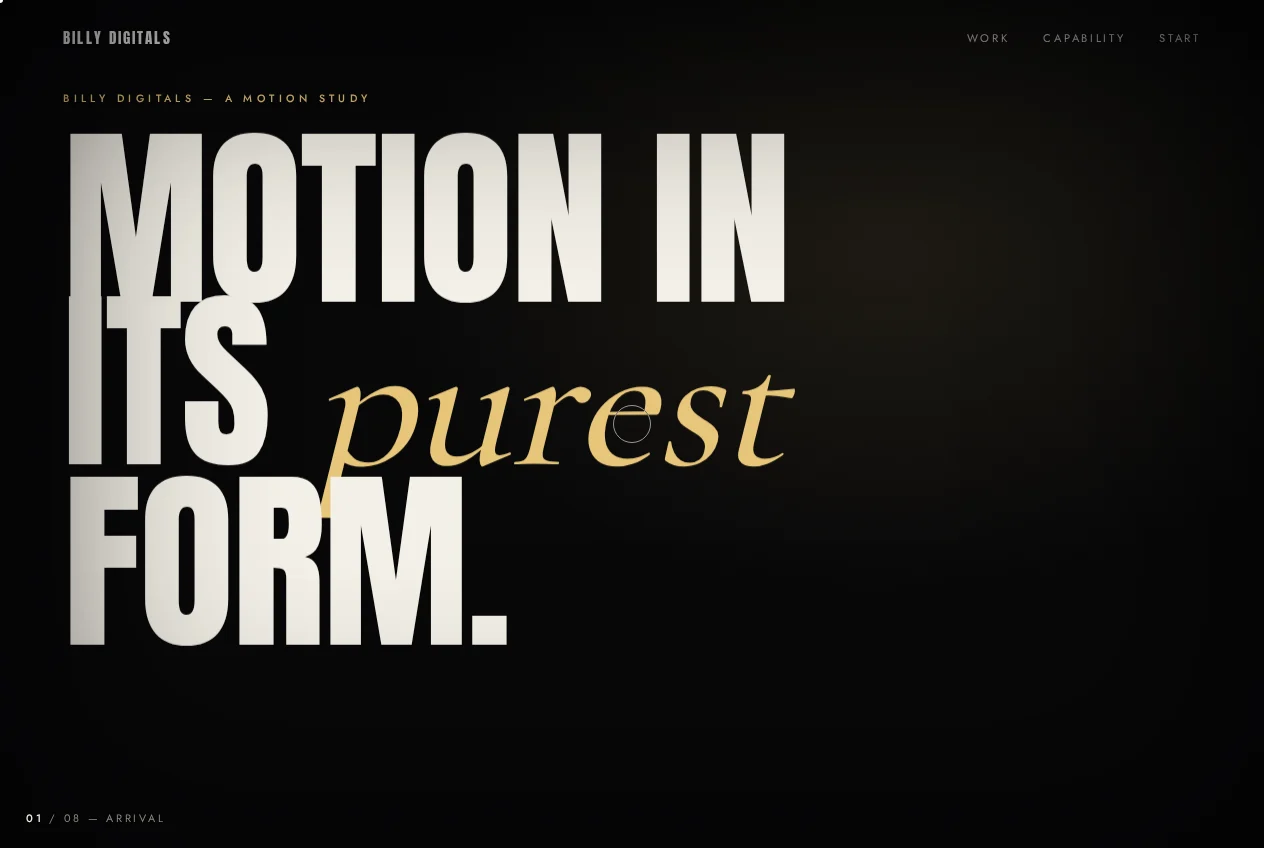
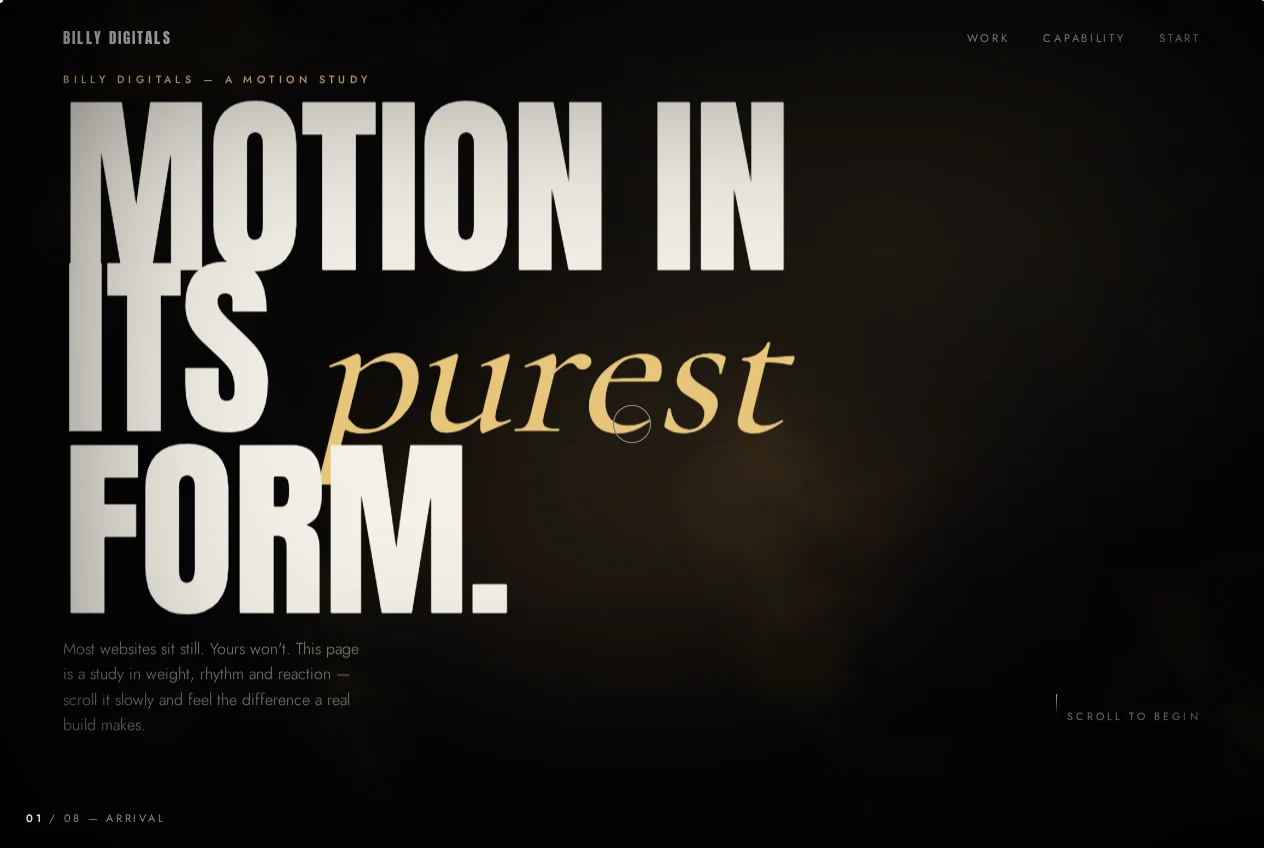
Apex: add living WebGL backdrop + velocity chromatic aberration
Raises the whole page from flat sections to one cohesive, reactive world:
- Persistent fullscreen WebGL fragment-shader backdrop (dark gold FBM veins)
  behind the entire page, brightening with scroll velocity and glowing
  toward the pointer (mouse + touch), capped resolution for mobile perf
- Velocity-driven chromatic aberration (RGB split) on the hero, section and
  CTA display type — settles when scrolling stops
- Sections sit translucent over the backdrop for depth while keeping text
  fully legible; disabled under prefers-reduced-motion
- Refreshed homepage thumbnail

Claude-Session: https://claude.ai/code/session_015K37x6MioAxPMJwvdwzo4L

Changed region(s): [[0.0309, 0.092, 0.6788, 0.8585], [0.5554, 0.2453, 0.5862, 0.2759]]

diff --git a/templates/apex.html b/templates/apex.html
@@ -27,8 +27,12 @@ h1,h2,h3{font-weight:400;line-height:.92;letter-spacing:-.01em}
 .muted{color:var(--dim)}
 section{position:relative}
 
+/* ============ living webgl backdrop ============ */
+#bg{position:fixed;inset:0;width:100%;height:100%;z-index:0;pointer-events:none;opacity:0;transition:opacity 1.4s ease}
+#bg.on{opacity:1}
+
 /* ============ smooth scroll wrapper ============ */
-#app{width:100%;z-index:1}
+#app{width:100%;position:relative;z-index:1}
 html.smooth #app{position:fixed;top:0;left:0;will-change:transform}
 html.smooth,html.smooth body{overflow:visible}
 html.smooth body{overscroll-behavior-y:none}
@@ -193,6 +197,7 @@ footer .bd{font-family:var(--disp);color:var(--ink);letter-spacing:.12em}
 }
 </style>
 
+<canvas id="bg"></canvas>
 <div id="grain"></div><div id="vig"></div>
 <div id="prog"><i></i></div>
 <div id="idx"><b>01</b> / 08 — <span id="idxn">ARRIVAL</span></div>
@@ -414,8 +419,55 @@ function init(){
   });
 
   addEventListener("scroll",function(){target=window.scrollY||window.pageYOffset;},{passive:true});
-  var ro;addEventListener("resize",function(){clearTimeout(ro);ro=setTimeout(measure,150);});
+  var ro;addEventListener("resize",function(){clearTimeout(ro);ro=setTimeout(function(){measure();if(bg)bg.size();},150);});
   measure();target=window.scrollY;cur=target;
+
+  /* ---------- global pointer (drives backdrop glow, works on touch) ---------- */
+  var pnx=0.5,pny=0.4;
+  function pt(x,y){pnx=x/vw;pny=1-(y/vh);}   // gl y is bottom-up
+  addEventListener("mousemove",function(e){pt(e.clientX,e.clientY);},{passive:true});
+  addEventListener("touchmove",function(e){if(e.touches[0])pt(e.touches[0].clientX,e.touches[0].clientY);},{passive:true});
+
+  /* ---------- living WebGL backdrop ---------- */
+  function makeBG(cv){
+    var gl=cv.getContext("webgl",{alpha:true,antialias:false,premultipliedAlpha:false})||cv.getContext("experimental-webgl");
+    if(!gl)return null;
+    var vs="attribute vec2 p;void main(){gl_Position=vec4(p,0.0,1.0);}";
+    var fs="precision highp float;uniform float t;uniform vec2 r;uniform vec2 m;uniform float e;"+
+      "float h(vec2 p){return fract(sin(dot(p,vec2(127.1,311.7)))*43758.5453);}"+
+      "float n(vec2 p){vec2 i=floor(p),f=fract(p);f=f*f*(3.0-2.0*f);"+
+      "return mix(mix(h(i),h(i+vec2(1,0)),f.x),mix(h(i+vec2(0,1)),h(i+vec2(1,1)),f.x),f.y);}"+
+      "float fbm(vec2 p){float v=0.0,a=0.5;for(int i=0;i<5;i++){v+=a*n(p);p*=2.0;a*=0.5;}return v;}"+
+      "void main(){vec2 uv=gl_FragCoord.xy/r.xy;vec2 p=uv;p.x*=r.x/r.y;"+
+      "float f=fbm(p*2.0+vec2(t*0.05,t*0.03));"+
+      "float f2=fbm(p*3.6-vec2(t*0.04,-t*0.02)+f*1.3);"+
+      "vec3 base=vec3(0.014,0.013,0.020);"+
+      "vec3 gold=vec3(0.60,0.44,0.16);"+
+      "float veins=smoothstep(0.52,0.86,f2);"+
+      "vec3 col=base+gold*veins*(0.09+e*0.55);"+
+      "col+=gold*0.14*veins*veins*e;"+                       // extra ignition on fast scroll
+      "float md=distance(uv,m);col+=vec3(0.85,0.66,0.34)*0.13*smoothstep(0.36,0.0,md);"+
+      "col+=gold*0.028*pow(uv.y,2.0);"+                      // faint top light
+      "gl_FragColor=vec4(col,1.0);}";
+    function sh(ty,src){var s=gl.createShader(ty);gl.shaderSource(s,src);gl.compileShader(s);return s;}
+    var pr=gl.createProgram();gl.attachShader(pr,sh(gl.VERTEX_SHADER,vs));gl.attachShader(pr,sh(gl.FRAGMENT_SHADER,fs));gl.linkProgram(pr);
+    if(!gl.getProgramParameter(pr,gl.LINK_STATUS))return null;
+    gl.useProgram(pr);
+    var buf=gl.createBuffer();gl.bindBuffer(gl.ARRAY_BUFFER,buf);
+    gl.bufferData(gl.ARRAY_BUFFER,new Float32Array([-1,-1,3,-1,-1,3]),gl.STATIC_DRAW);
+    var lp=gl.getAttribLocation(pr,"p");gl.enableVertexAttribArray(lp);gl.vertexAttribPointer(lp,2,gl.FLOAT,false,0,0);
+    var ut=gl.getUniformLocation(pr,"t"),ur=gl.getUniformLocation(pr,"r"),um=gl.getUniformLocation(pr,"m"),ue=gl.getUniformLocation(pr,"e");
+    function size(){var d=Math.min(devicePixelRatio||1,1.4);cv.width=Math.max(2,(innerWidth*d)|0);cv.height=Math.max(2,(innerHeight*d)|0);gl.viewport(0,0,cv.width,cv.height);}
+    size();
+    return {size:size,draw:function(tt,en,mx,my){gl.uniform1f(ut,tt);gl.uniform2f(ur,cv.width,cv.height);gl.uniform2f(um,mx,my);gl.uniform1f(ue,en);gl.drawArrays(gl.TRIANGLES,0,3);}};
+  }
+  var bg=reduce?null:makeBG(document.getElementById("bg"));
+  var bgT=0,bgE=0;
+  if(bg){requestAnimationFrame(function(){document.getElementById("bg").classList.add("on");});}
+
+  /* velocity chromatic aberration targets */
+  var splitEls=[].slice.call(document.querySelectorAll("#hero h1, #cta h2, .htitle h2"));
+  var lastSplit=0;
 
   /* ---------- FLIP gallery ---------- */
   var flip=document.getElementById("flip"),flipPi=flip.querySelector(".pi"),flipx=document.getElementById("flipx"),flipOpen=false,flipEl=null,flipR=null;
@@ -527,6 +579,16 @@ function init(){
     for(var s=0;s<secs.length;s++){var o=offsets.has(secs[s])?offsets.get(secs[s]):offTop(secs[s]);if(o<=mid)active=secs[s];}
     if(active){var nm=active.getAttribute("data-idx"),nn=active.getAttribute("data-n");
       if(idxn.textContent!==nm){idxn.textContent=nm;idxb.textContent=nn;}}
+
+    /* living backdrop — energy from scroll velocity, glow follows pointer */
+    bgE=lerp(bgE,clamp(Math.abs(vel)*0.03,0,1),0.08);
+    if(bg){bgT+=0.006+bgE*0.06;bg.draw(bgT,bgE,pnx,pny);}
+
+    /* velocity chromatic aberration on big type */
+    var sp=Math.round(bgE*5*10)/10;
+    if(sp!==lastSplit){lastSplit=sp;
+      var ts=sp<0.4?"":(sp+"px 0 rgba(255,42,74,.55),"+(-sp)+"px 0 rgba(40,190,255,.5)");
+      for(var q=0;q<splitEls.length;q++)splitEls[q].style.textShadow=ts;}
 
     requestAnimationFrame(frame);
   }